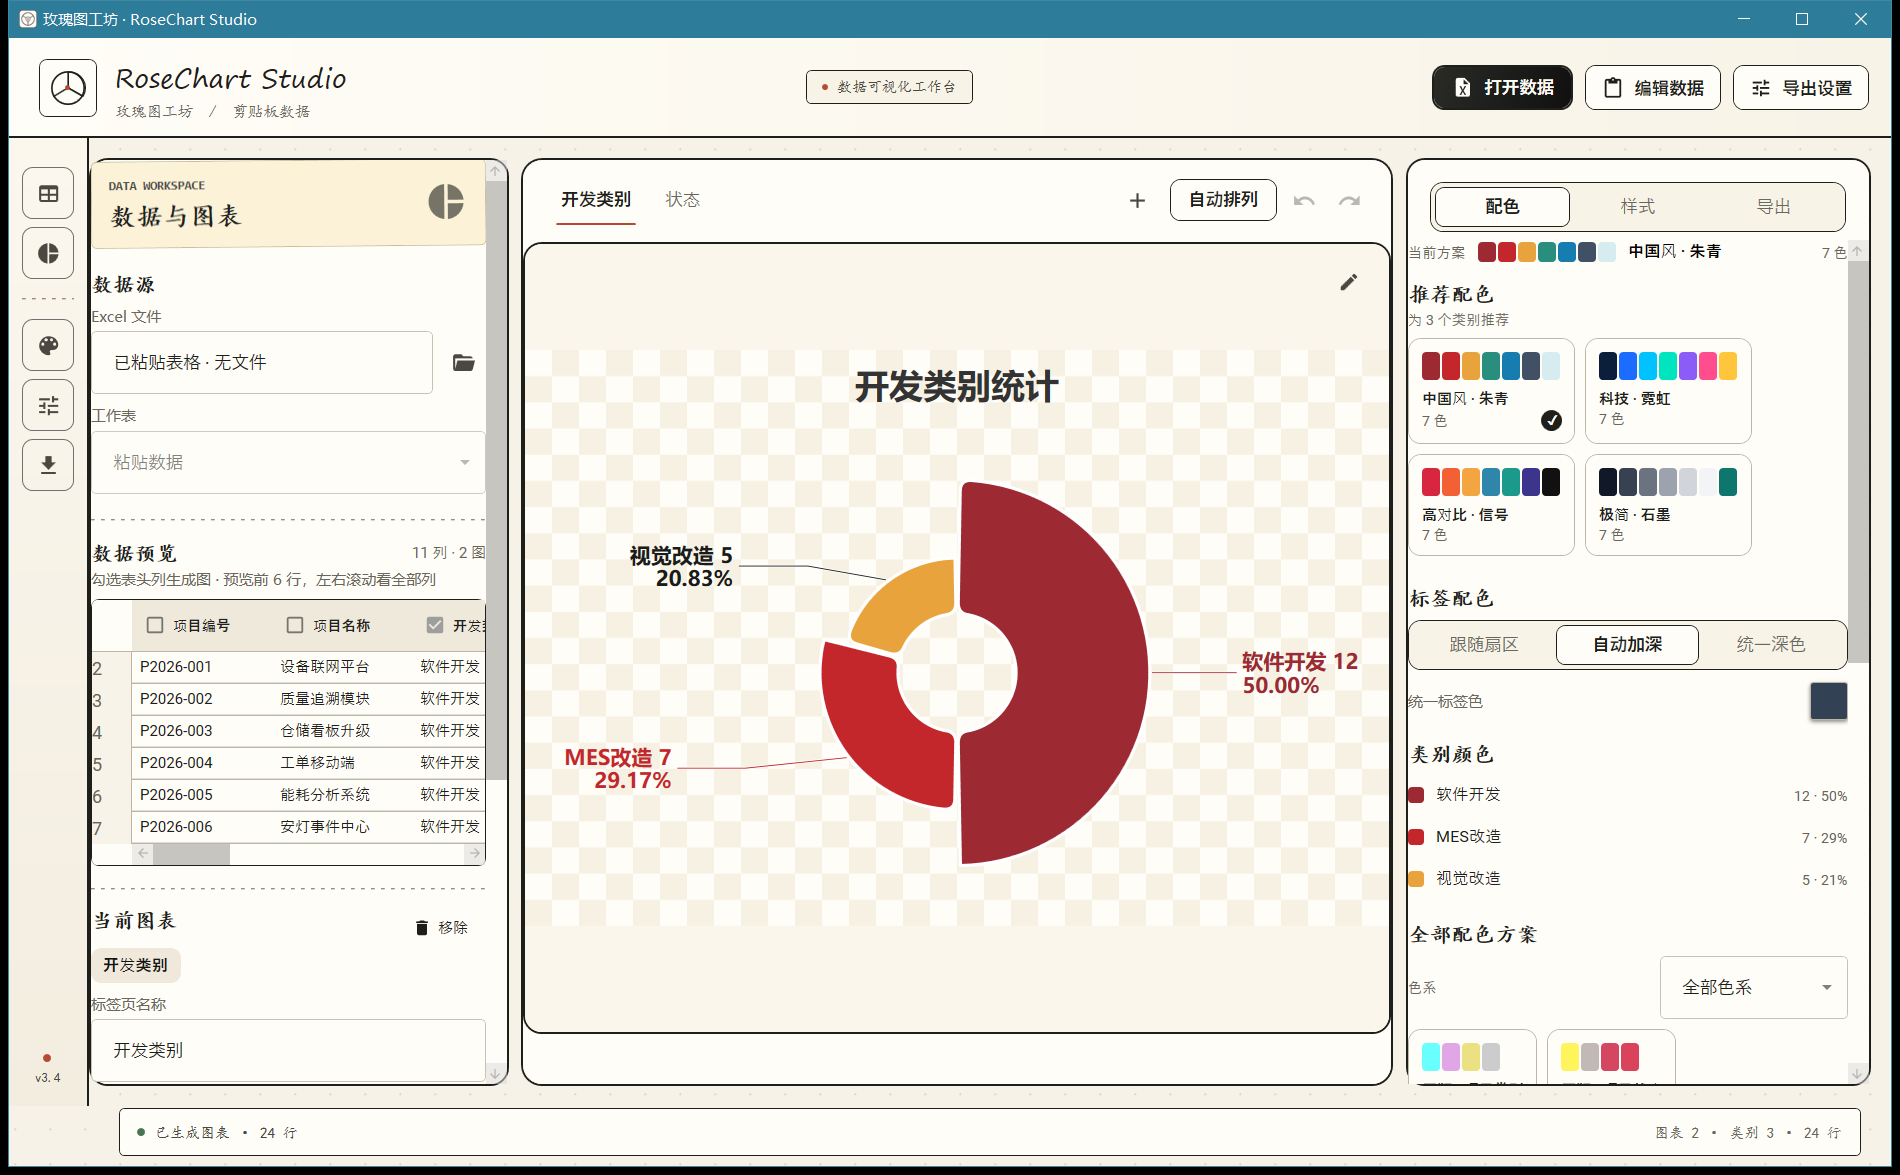
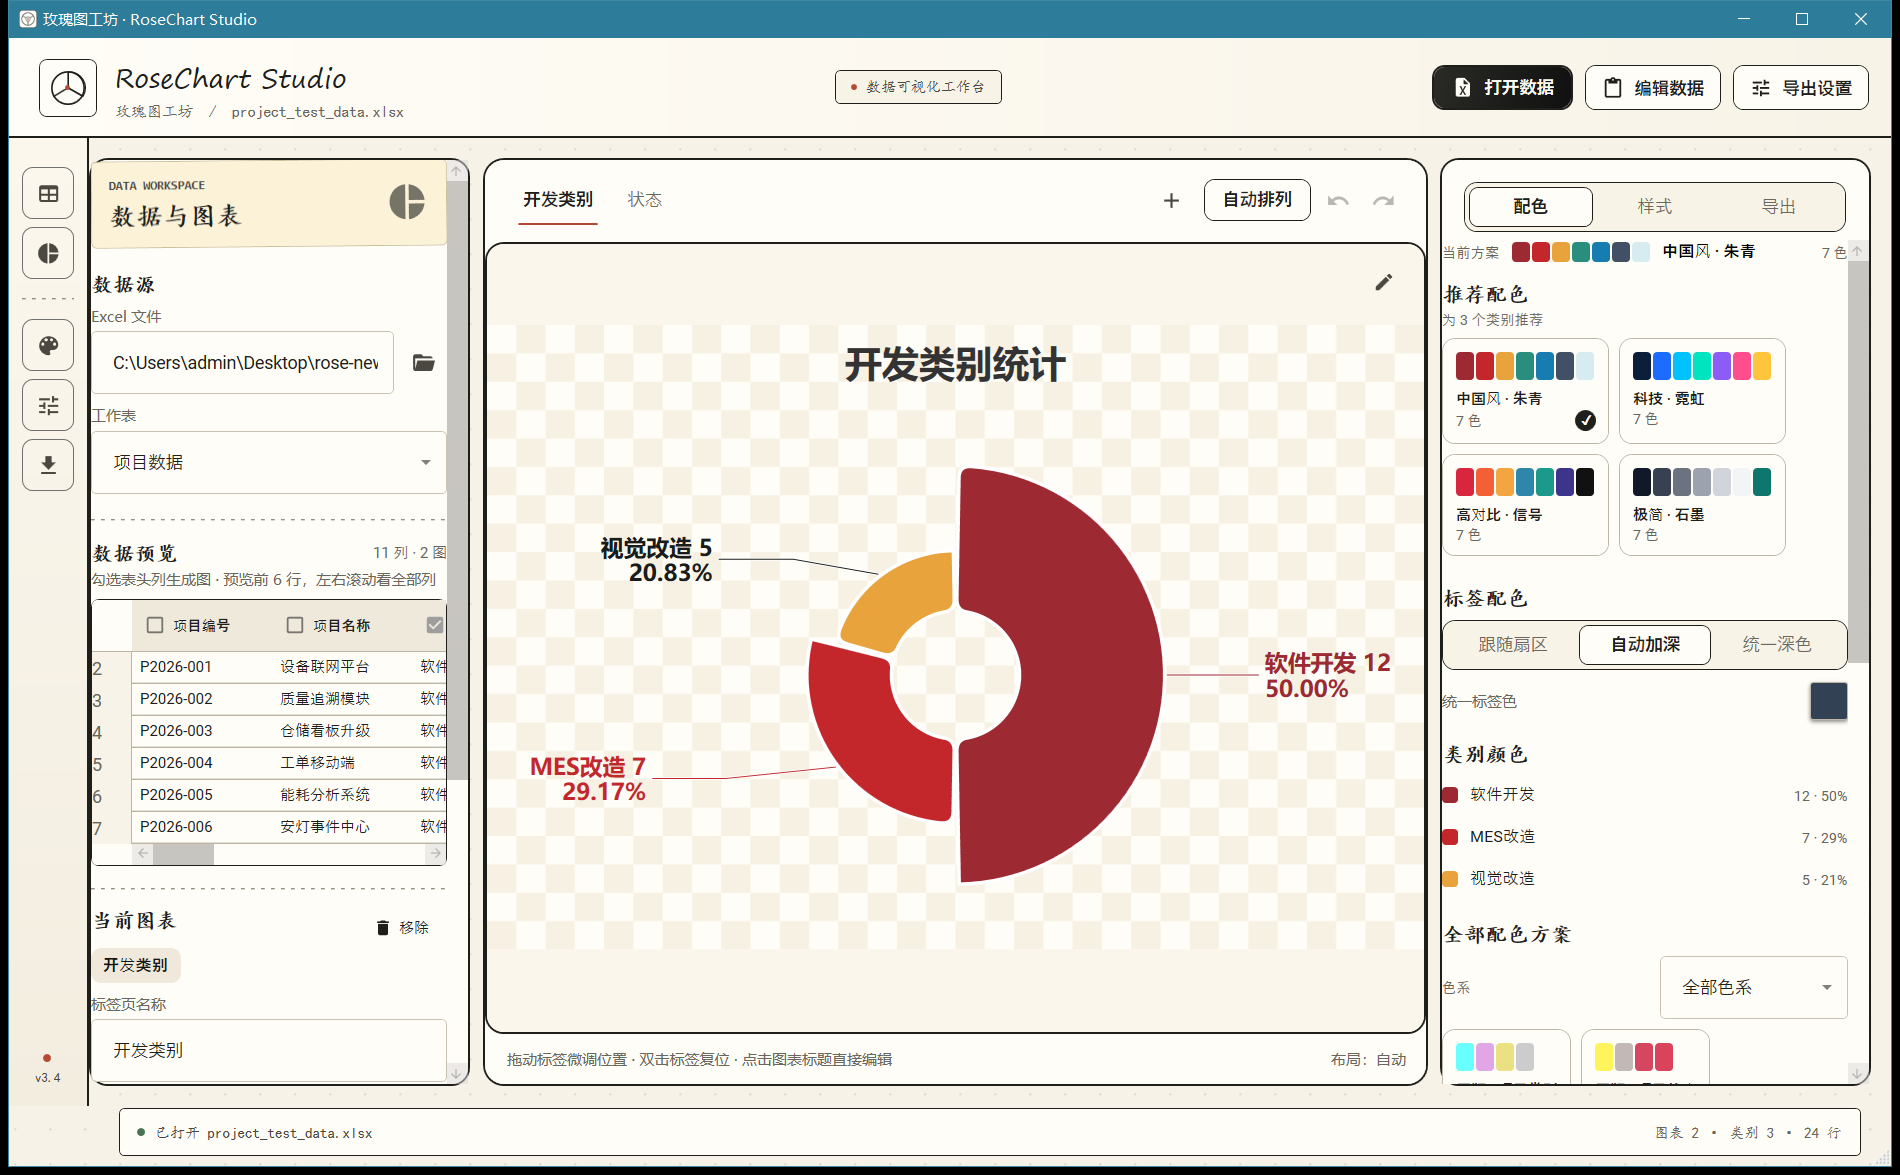
fix: fit window to screen and make workspace responsive

diff --git a/wpf/RoseChartStudio.App/MainWindow.xaml b/wpf/RoseChartStudio.App/MainWindow.xaml
@@ -4,8 +4,10 @@
         xmlns:materialDesign="http://materialdesigninxaml.net/winfx/xaml/themes"
         xmlns:rendering="clr-namespace:RoseChartStudio.Rendering;assembly=RoseChartStudio.Rendering"
         Title="玫瑰图工坊 · RoseChart Studio"
-        Width="1520" Height="940" MinWidth="1440" MinHeight="870"
+        Width="1520" Height="940" MinWidth="1080" MinHeight="640"
         WindowStartupLocation="CenterScreen"
+        ResizeMode="CanResizeWithGrip"
+        SizeToContent="Manual"
         Background="{StaticResource AppBackdropBrush}"
         Icon="Assets/icon.ico"
         UseLayoutRounding="True"
@@ -244,9 +246,9 @@
         <Grid Grid.Row="1">
             <Grid.ColumnDefinitions>
                 <ColumnDefinition Width="64" />
-                <ColumnDefinition x:Name="DataPaneColumn" Width="336" />
-                <ColumnDefinition Width="*" />
-                <ColumnDefinition x:Name="InspectorPaneColumn" Width="388" />
+                <ColumnDefinition x:Name="DataPaneColumn" Width="22*" MinWidth="260" MaxWidth="360" />
+                <ColumnDefinition Width="56*" MinWidth="380" />
+                <ColumnDefinition x:Name="InspectorPaneColumn" Width="26*" MinWidth="310" MaxWidth="420" />
             </Grid.ColumnDefinitions>
 
             <!-- simple-line navigation rail -->
@@ -574,10 +576,16 @@
                                                Style="{StaticResource CaptionText}" Margin="0,6,0,0" TextWrapping="Wrap" />
                                 </StackPanel>
                                 <Grid Grid.Row="1" Margin="0,14,0,10">
+                                    <Grid.ColumnDefinitions>
+                                        <ColumnDefinition Width="Auto" />
+                                        <ColumnDefinition Width="*" />
+                                    </Grid.ColumnDefinitions>
                                     <CheckBox x:Name="PasteGridHeaderCheck" Content="首行作为表头"
                                               IsChecked="True" VerticalAlignment="Center" />
                                     <TextBlock x:Name="PasteGridStatus" Text="支持 Tab、CSV、分号、竖线分隔"
-                                               Style="{StaticResource CaptionText}" HorizontalAlignment="Right"
+                                               Style="{StaticResource CaptionText}" Grid.Column="1"
+                                               HorizontalAlignment="Right" TextAlignment="Right"
+                                               TextWrapping="Wrap" Margin="12,0,0,0"
                                                VerticalAlignment="Center" />
                                 </Grid>
                                 <Border Grid.Row="2" Background="{StaticResource Panel}"

diff --git a/wpf/RoseChartStudio.App/MainWindow.xaml.cs b/wpf/RoseChartStudio.App/MainWindow.xaml.cs
@@ -87,6 +87,20 @@ public partial class MainWindow : Window
         Closing += OnWindowClosing;
     }
 
+    private void ApplyAdaptiveWindowBounds()
+    {
+        // WPF window units are DIPs, matching SystemParameters.WorkArea units.
+        // Keep the designed 1520×940 on roomy displays, but always fit the
+        // current work area so the window is fully visible on first launch.
+        var work = SystemParameters.WorkArea;
+        var availableWidth = work.Width > 200 ? work.Width : 1520;
+        var availableHeight = work.Height > 200 ? work.Height : 940;
+        var maxWidth = Math.Max(MinWidth, availableWidth * 0.96);
+        var maxHeight = Math.Max(MinHeight, availableHeight * 0.92);
+        Width = Math.Clamp(_settings.Window.Width, MinWidth, maxWidth);
+        Height = Math.Clamp(_settings.Window.Height, MinHeight, maxHeight);
+    }
+
     private void ApplyPersistedSettings()
     {
         try
@@ -103,8 +117,7 @@ public partial class MainWindow : Window
             {
                 _export.OutputDirectory = _settings.Export.OutputDirectory;
             }
-            Width = Math.Max(MinWidth, _settings.Window.Width);
-            Height = Math.Max(MinHeight, _settings.Window.Height);
+            ApplyAdaptiveWindowBounds();
             if (_settings.Window.Maximized)
             {
                 WindowState = WindowState.Maximized;
@@ -2222,8 +2235,10 @@ public partial class MainWindow : Window
 
     private void SetSidePanes(bool dataVisible, bool inspectorVisible)
     {
-        DataPaneColumn.Width = dataVisible ? new GridLength(336) : new GridLength(0);
-        InspectorPaneColumn.Width = inspectorVisible ? new GridLength(388) : new GridLength(0);
+        DataPaneColumn.MinWidth = dataVisible ? 260 : 0;
+        DataPaneColumn.Width = dataVisible ? new GridLength(22, GridUnitType.Star) : new GridLength(0);
+        InspectorPaneColumn.MinWidth = inspectorVisible ? 310 : 0;
+        InspectorPaneColumn.Width = inspectorVisible ? new GridLength(26, GridUnitType.Star) : new GridLength(0);
         if (dataVisible && inspectorVisible)
         {
             RailChartButton.Background = Brushes.Transparent;

diff --git a/wpf/_qa/README.md b/wpf/_qa/README.md
@@ -11,8 +11,10 @@
 | `shots/final/32_sketch_style.png` | 简笔风样式页：墨线分段 Tab 与手写体标题 |
 | `shots/final/33_sketch_focus.png` | 专注画布：只保留图表与导航轨 |
 | `shots/final/34_sketch_editor.png` | 粘贴/编辑表格：纸墨表格与线框按钮 |
-| `shots/final/35_sketch_min.png` | 最小窗口 1440×870 下的简笔布局 |
+| `shots/final/35_sketch_min.png` | 最小窗口 1080×640（物理 1350×800）下的简笔布局 |
 | `shots/final/36_sketch_export.png` | 简笔风导出页 |
+| `shots/final/37_default_proportions.png` | 默认 1520×940 的 22 / 56 / 26 三栏比例 |
+| `shots/final/38_compact.png` | 1080×640 最小窗口：三栏仍可用、内部滚动 |
 
 ## v3.3 现代工作台（历史）
 
@@ -44,7 +46,7 @@
 | `shots/final/15_paste_table_edit.png` | 生成后通过顶部“编辑数据”重新打开表格，编辑单元格 |
 | `shots/final/16_row_col_context_menu.png` | 与 Excel 一致：右键行号/列标题/单元格插入或删除行列 |
 
-截图通过 `PrintWindow` 从应用窗口本身捕获，避免桌面其他置顶窗口/广告浮层进入证据；分辨率 1900×1175（1520×940 @125% DPI），最小窗口 1800×1088（1440×870 @125%）。`contact_sheet.png` 为 6 个简笔风关键状态并排总览。
+截图通过 `PrintWindow` 从应用窗口本身捕获，避免桌面其他置顶窗口/广告浮层进入证据；默认窗口 1900×1175（1520×940 @125% DPI），最小窗口 1350×800（1080×640 @125%）。`contact_sheet.png` 为 8 个简笔风关键状态并排总览。
 
 ## 导出样例
 

diff --git a/wpf/README.md b/wpf/README.md
@@ -23,6 +23,7 @@ v3.4 起采用简笔风纸墨界面；v3.3 起采用现代工作台骨架；v3.2
 - v3.4 将整个界面改为「简笔风」：暖白点阵纸背景、墨线卡片、无阴影扁平控件、手写体（Segoe Print / KaiTi）、红色小印记、旋转便签卡片、虚线分隔、线性玫瑰图 Logo 与重绘的纸墨应用图标。
 - 控件行为仍来自 Material 3（outlined 文本框/下拉、复选框、滑杆、滚动条），但视觉 token 已改为纸墨色板；不再使用深色渐变、彩色阴影或大面积色块。
 - 保留「图表是唯一主角」的自绘图表与三栏工作台骨架；右侧属性页为线框分段按钮，图表标签为墨线下划线。
+- **窗口与比例**：启动尺寸默认按 1520×940 并自动限制在当前屏幕工作区内（工作区 96%×92%，至少保留 1080×640 最小窗口）；三栏按 22 / 56 / 26 的星号比例伸缩，左右面板带最小/最大宽度；窗口可自由拖动缩放，尺寸与最大化状态在关闭时保存，下次启动恢复并再次限制在可用屏幕内。
 - 使用方式：`App.xaml` 合并 `BundledTheme` + `MaterialDesign3.Defaults.xaml`；`Themes/Tokens.xaml` 提供纸墨色板与纸张纹理，`Themes/Styles.xaml` 将按钮/卡片/标签重绘为线稿风格。
 
 ## 当前状态

diff --git a/README.md b/README.md
@@ -11,6 +11,7 @@
 ## 当前版本：WPF v3.4 · 简笔风
 
 - **简笔风纸墨界面**：暖白点阵纸背景、墨线卡片、手写体标题、红色小印记、旋转便签卡片和虚线分隔，图表工作室像一页手绘稿纸；
+- **自适应窗口比例**：左右数据/属性面板按比例伸缩（默认约 22% / 56% / 26%），窗口启动时自动适配屏幕工作区，缩小后仍可滚动完整查看；窗口可自由拖动缩放，尺寸会被记住；
 - **任意 Excel 列**都可以生成玫瑰图，不再限制“项目/状态”两类统计；
 - **无需 Excel 文件**：启动后中心显示空白表格，从 Excel / Google Sheets / 网页复制表格，点击表格按 Ctrl+V 粘贴；粘贴后单元格仍可编辑，确认后点击“生成图表”。
 - 左侧真实表格预览：显示真实表头、Excel 行号和前 6 行数据，勾选表头列即可生成图表；
